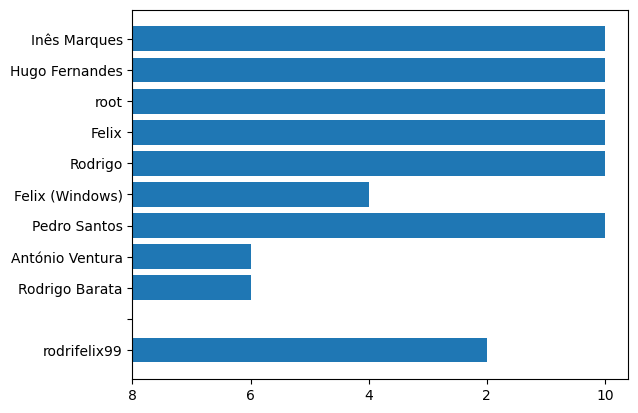
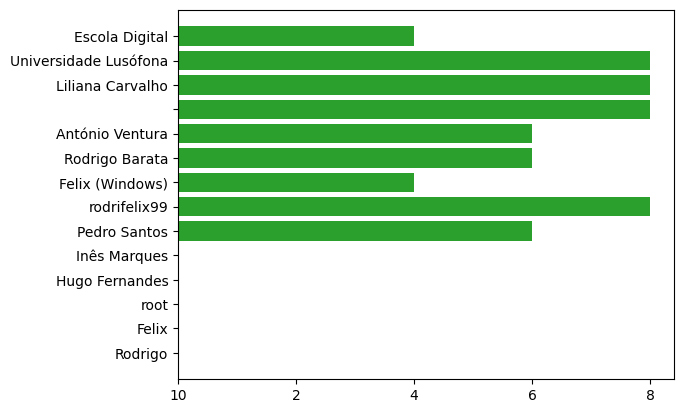
Lab10: Bug fix no desenha_grafico()

diff --git a/portfolio/views.py b/portfolio/views.py
@@ -122,7 +122,7 @@ def pontuacao_quizz(request):
 
 
 def desenha_grafico_resultados():
-    participantes = sorted(PontuacaoQuizz.objects.all(), key=lambda t: t.pontuacao, reverse=True)
+    participantes = sorted(PontuacaoQuizz.objects.all().order_by('pontuacao'), key=lambda x: x.pontuacao)
 
     nomes = []
     pontuacoes = []
